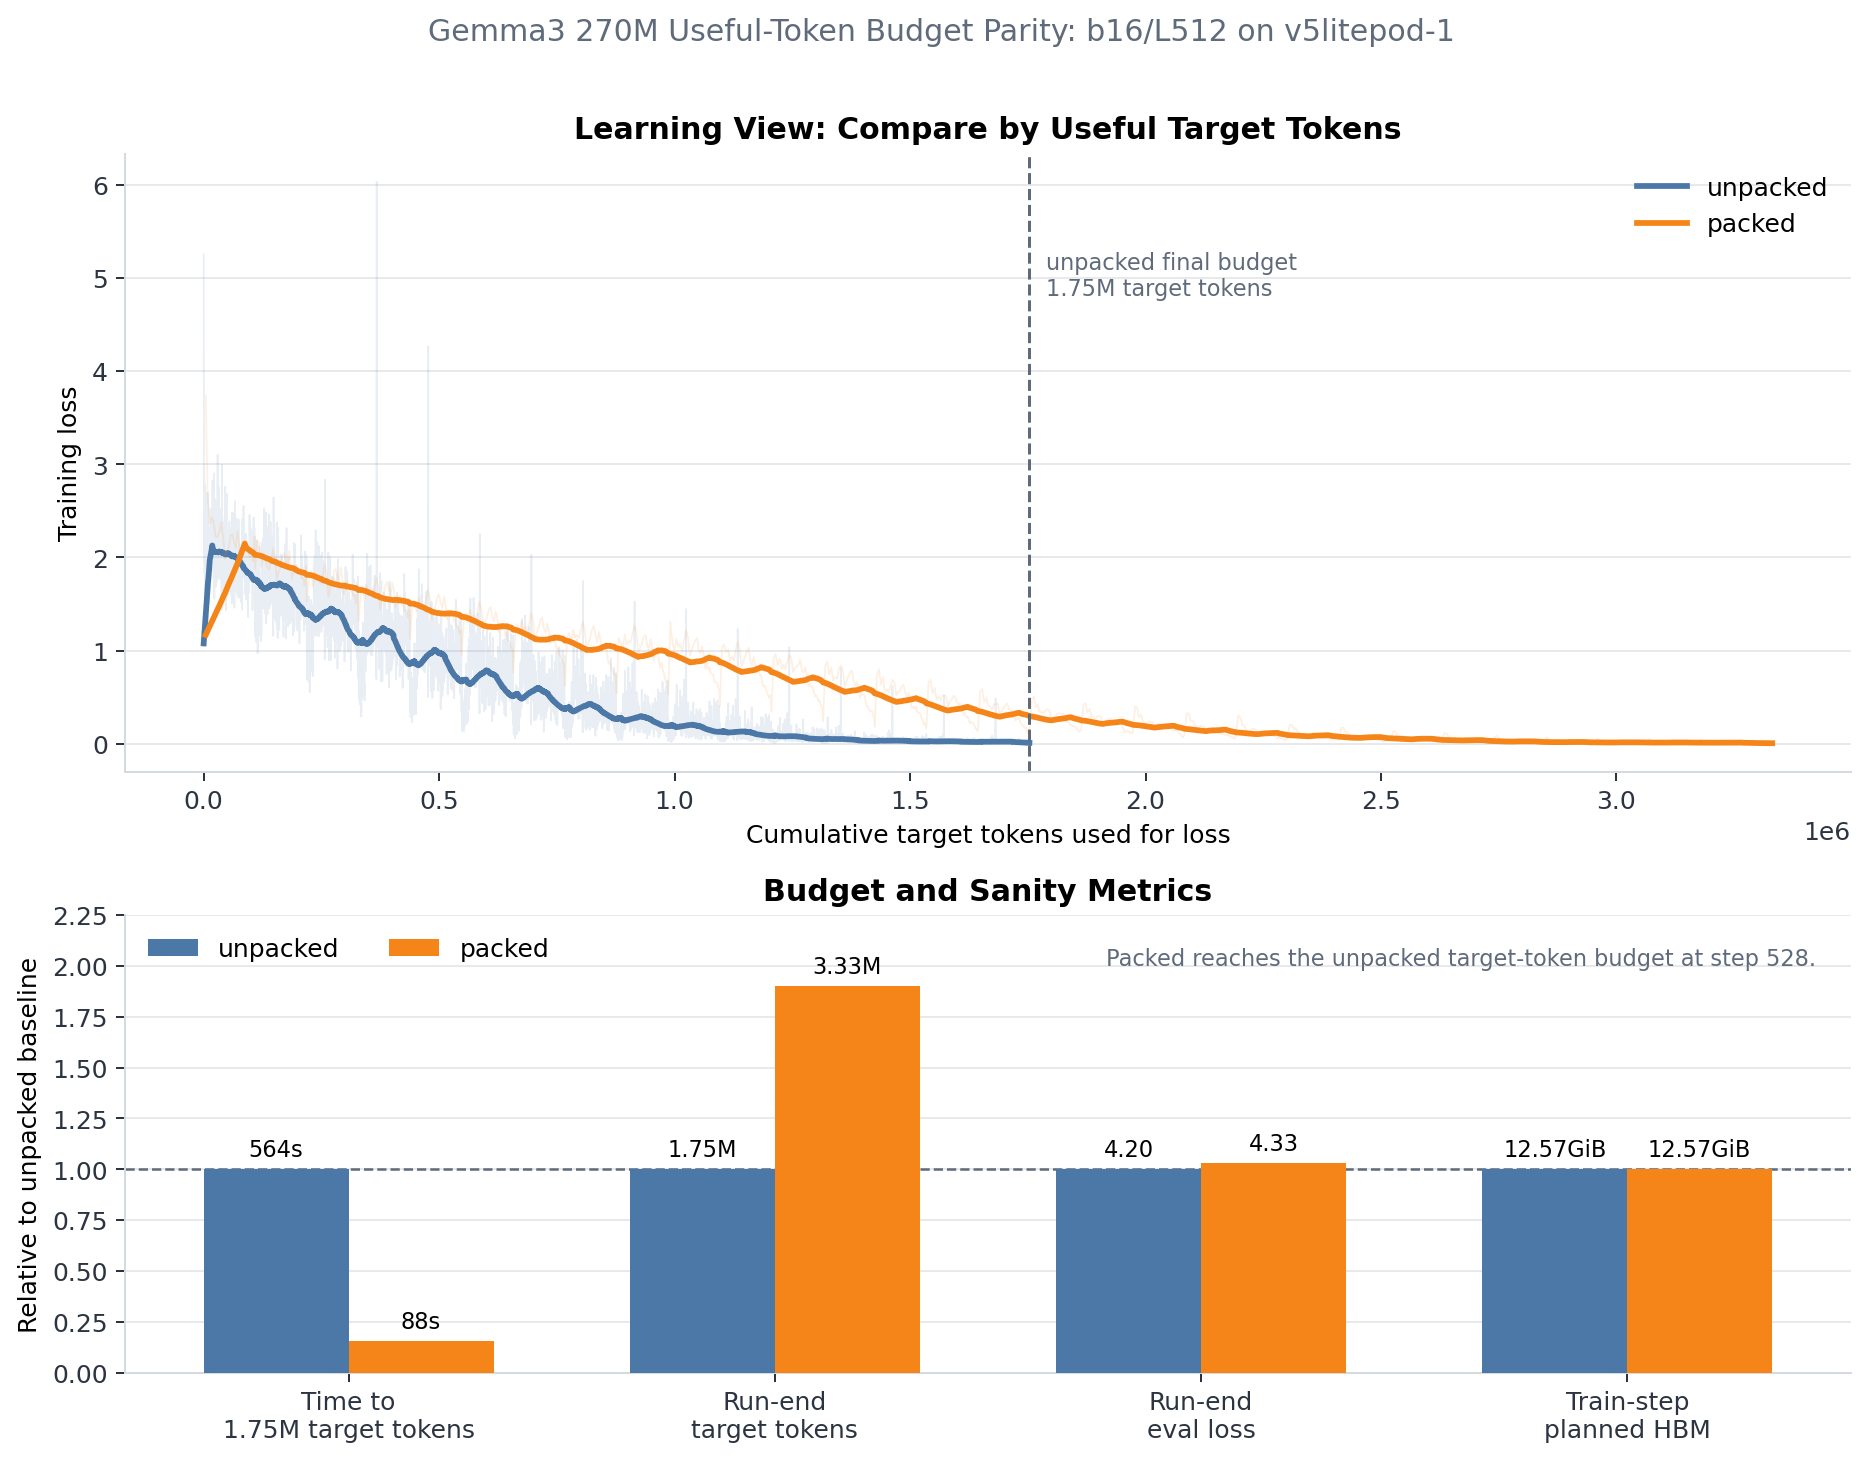
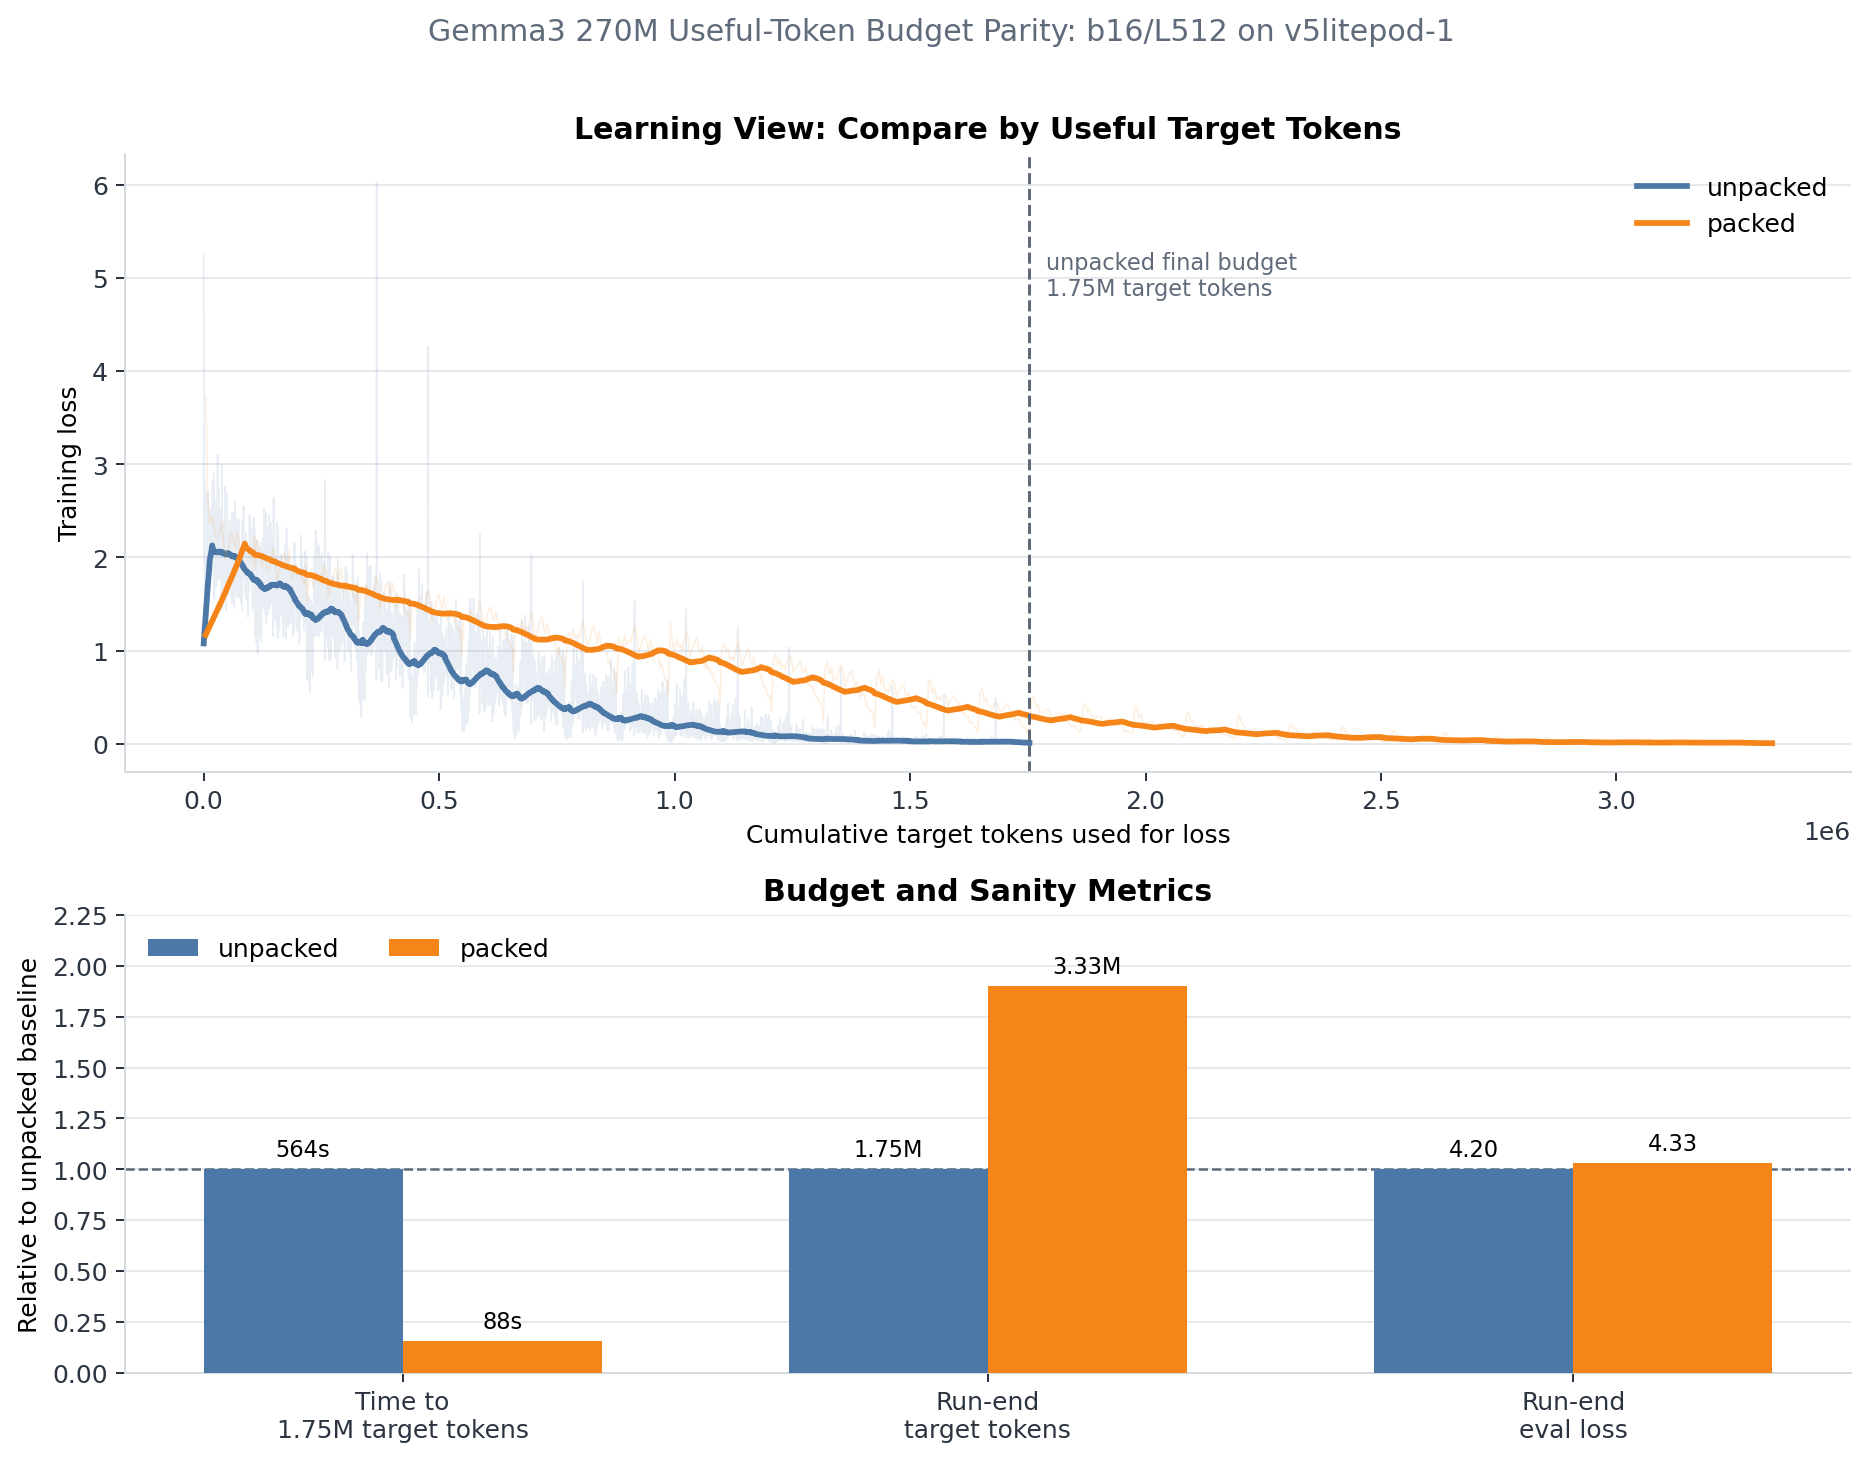
Reframe packing report around token efficiency

Changed region(s): [[0.1242, 0.6473, 0.9625, 0.9863], [0.1242, 0.7705, 0.1863, 0.8014]]

diff --git a/02-PACKING/visualize_270m_results.py b/02-PACKING/visualize_270m_results.py
@@ -415,7 +415,10 @@ def plot_fit_frontier(short_rows: list[dict[str, Any]]) -> Path:
   axis.set_xticklabels([f"b{b}\nL{l}" for b, l in shapes])
   axis.set_ylim(0, 50)
   axis.set_ylabel("XLA train-step planned HBM, GiB/chip")
-  axis.set_title("Packing Does Not Move the Fixed-Shape Fit Frontier", fontweight="bold")
+  axis.set_title(
+      "Non-Claim Check: Same Shape, Same Planned HBM",
+      fontweight="bold",
+  )
   axis.legend(
       handles=[
           Patch(facecolor=BLUE, label="unpacked"),
@@ -567,7 +570,6 @@ def plot_quality(
       "Time to\n1.75M target tokens",
       "Run-end\ntarget tokens",
       "Run-end\neval loss",
-      "Train-step\nplanned HBM",
   ]
   unpacked_summary = next(row for row in quality_rows if row["variant"] == "unpacked")
   packed_summary = next(row for row in quality_rows if row["variant"] == "packed")
@@ -576,13 +578,11 @@ def plot_quality(
           unpacked_time,
           unpacked_summary["final_cumulative_loss_tokens"] / 1e6,
           unpacked_summary["eval_loss"],
-          unpacked_summary["xla_train_step_gib_per_chip"],
       ],
       "packed": [
           packed_time,
           packed_summary["final_cumulative_loss_tokens"] / 1e6,
           packed_summary["eval_loss"],
-          packed_summary["xla_train_step_gib_per_chip"],
       ],
   }
   normalizers = raw_values["unpacked"]
@@ -613,10 +613,8 @@ def plot_quality(
         text = f"{raw:.0f}s"
       elif idx == 1:
         text = f"{raw:.2f}M"
-      elif idx == 2:
-        text = f"{raw:.2f}"
       else:
-        text = f"{raw:.2f}GiB"
+        text = f"{raw:.2f}"
       axis.text(
           bar.get_x() + bar.get_width() / 2,
           bar.get_height() + 0.04,
@@ -632,16 +630,6 @@ def plot_quality(
   axis.set_ylabel("Relative to unpacked baseline")
   axis.set_title("Budget and Sanity Metrics", fontweight="bold")
   axis.legend(frameon=False, loc="upper left", ncols=2)
-  axis.text(
-      0.98,
-      0.93,
-      f"Packed reaches the unpacked target-token budget at step {packed_step}.",
-      transform=axis.transAxes,
-      ha="right",
-      va="top",
-      fontsize=9,
-      color=GRAY,
-  )
 
   fig.suptitle(
       "Gemma3 270M Useful-Token Budget Parity: b16/L512 on v5litepod-1",

diff --git a/02-PACKING/TECHNICAL_REPORT.md b/02-PACKING/TECHNICAL_REPORT.md
@@ -1,22 +1,21 @@
-# Sequence Packing on JAX/Tunix TPU: Useful-Token Density, Not Shape Memory
+# Sequence Packing on JAX/Tunix TPU: Turning Padding Into Useful Tokens
 
 This report makes one deliberately narrow claim: for Gemma3 270M LoRA SFT on
 JAX/Tunix, sequence packing turns padding-heavy fixed rows into useful target
-tokens without changing the fixed-shape TPU memory frontier. It is a data
-density and useful-token-throughput optimization, not a replacement for CCE,
-activation-memory work, or larger TPU meshes.
+tokens. It is a data-density and useful-token-throughput optimization, not a
+fixed-shape memory optimization.
 
 ## Executive Summary
 
 | Question | Result |
 | --- | --- |
 | What is being optimized? | Padding waste. Packing combines multiple short SFT examples into one fixed-length row while preserving per-example positions and block-causal attention. |
-| Does it reduce fixed-shape XLA planned HBM? | No. Passing and failing shapes had nearly identical planned HBM for packed and unpacked variants. |
+| How much padding waste was available? | With the Gemma tokenizer and batch 16, fixed unpacked density fell from 24.9% at L256 to 3.2% at L2048, while packed density stayed around 98.6-99.8%. |
 | Does it improve useful-token throughput? | Yes. On passing short runs, target-token throughput improved by 21.2x to 40.1x. |
 | Does same-shape step time change? | Barely in this setup. Packed/unpacked step-time ratios were 0.982x, 1.006x, and 1.004x for the passing matched shapes. |
-| What is the TPU fit boundary? | On `v5litepod-1`, b8/L512, b8/L1024, and b16/L512 compiled for both variants. b16/L1024 and all tested b32 shapes failed for both variants. |
 | Does useful-token training finish faster? | Yes for token budget. Packed reached the unpacked run's 1.75M target-token budget at step 528 in 88s of cumulative step time, versus 5,000 unpacked steps in 564s. |
 | Is the optimizer trajectory identical? | No. Packing changes the number of target tokens per optimizer update. Loss should be compared by useful tokens and interpreted with that optimizer-step difference in mind. |
+| What is the memory claim? | There is no memory-saving claim. Planned HBM rows are retained only as a negative control showing that packing does not move the fixed-shape fit frontier. |
 
 ## Experiment Scope
 
@@ -60,34 +59,7 @@ training content.
 | 1024 | 6.3% | 37.1% | 99.6% | 15.8x |
 | 2048 | 3.2% | 36.9% | 99.8% | 31.6x |
 
-## 2. Packing Does Not Move the TPU Fit Frontier
-
-The short TPU matrix tested batch sizes 8, 16, and 32 with max lengths 512 and
-1024 for both packed and unpacked input pipelines. Each case attempted 50 LoRA
-SFT steps with quality eval disabled.
-
-![Gemma3 270M TPU fit frontier](./assets/gemma3_270m_tpu_fit_frontier.png)
-
-The result is exactly what the mechanism predicts. Packing changes token
-layout and masks inside the row, but it does not change `(batch, length)`.
-Therefore the planned HBM footprint remains effectively the same for packed and
-unpacked cases.
-
-| Shape | Unpacked status / XLA HBM | Packed status / XLA HBM |
-| --- | ---: | ---: |
-| b8/L512 | OK / 6.85 GiB/chip | OK / 6.85 GiB/chip |
-| b8/L1024 | OK / 13.10 GiB/chip | OK / 13.11 GiB/chip |
-| b16/L512 | OK / 12.57 GiB/chip | OK / 12.57 GiB/chip |
-| b16/L1024 | OOM / 21.36 GiB/chip | OOM / 21.39 GiB/chip |
-| b32/L512 | OOM / 21.32 GiB/chip | OOM / 21.35 GiB/chip |
-| b32/L1024 | OOM / 45.45 GiB/chip | OOM / 45.51 GiB/chip |
-
-This is a useful negative result. It prevents the report from accidentally
-selling packing as a memory-wall fix. If the desired shape cannot compile
-because CE logits or attention activations exceed HBM, packing alone will not
-make that shape fit.
-
-## 3. The Throughput Gain Is Real When the Shape Fits
+## 2. The Throughput Gain Is Real When the Shape Fits
 
 For the passing matched shapes, step time stayed in the same band while
 target-token throughput increased sharply.
@@ -105,7 +77,7 @@ target-token density is especially low at that shape. The model is doing about
 the same fixed-shape work either way; packed batches simply waste far fewer
 positions.
 
-## 4. Useful-Token Budget View
+## 3. Useful-Token Budget View
 
 The quality sanity run used b16/L512 for both variants:
 
@@ -130,6 +102,31 @@ the same useful-token budget, packing can reach that budget much faster.
 The eval losses are retained only as a sanity check that both jobs completed
 normal Tunix training and evaluation. They are not presented as a translation
 quality benchmark.
+
+## 4. Non-Claim Check: Same Shape, Same Planned HBM
+
+The short TPU matrix also records planned HBM, but only as a guardrail. Packing
+changes token layout and masks inside a fixed row; it does not change
+`(batch, length)`. Therefore the planned HBM footprint should remain the same.
+
+![Gemma3 270M TPU fit frontier](./assets/gemma3_270m_tpu_fit_frontier.png)
+
+That is what happened. Passing and failing shapes had nearly identical planned
+HBM for packed and unpacked variants.
+
+| Shape | Unpacked status / XLA HBM | Packed status / XLA HBM |
+| --- | ---: | ---: |
+| b8/L512 | OK / 6.85 GiB/chip | OK / 6.85 GiB/chip |
+| b8/L1024 | OK / 13.10 GiB/chip | OK / 13.11 GiB/chip |
+| b16/L512 | OK / 12.57 GiB/chip | OK / 12.57 GiB/chip |
+| b16/L1024 | OOM / 21.36 GiB/chip | OOM / 21.39 GiB/chip |
+| b32/L512 | OOM / 21.32 GiB/chip | OOM / 21.35 GiB/chip |
+| b32/L1024 | OOM / 45.45 GiB/chip | OOM / 45.51 GiB/chip |
+
+This section exists to bound the claim. If the desired shape cannot compile
+because CE logits or attention activations exceed HBM, packing alone will not
+make that shape fit. That job belongs to memory-path optimizations such as CCE
+or activation-memory work.
 
 ## 5. Implementation Notes
 
@@ -167,9 +164,10 @@ The clean message is:
 
 - Use packing when SFT examples are short relative to the chosen max length.
 - Expect useful-token throughput to rise roughly with target-token density.
-- Do not expect packing to move the fixed-shape HBM frontier.
 - Treat optimizer-step parity and useful-token parity as different experiment
   designs.
+- Do not use packing as a memory-wall fix; the planned-HBM rows are included
+  only to prove that boundary.
 
 In other words, packing is the right lever for padding waste. It is not the
 right lever for dense loss logits, attention activation memory, or model-state